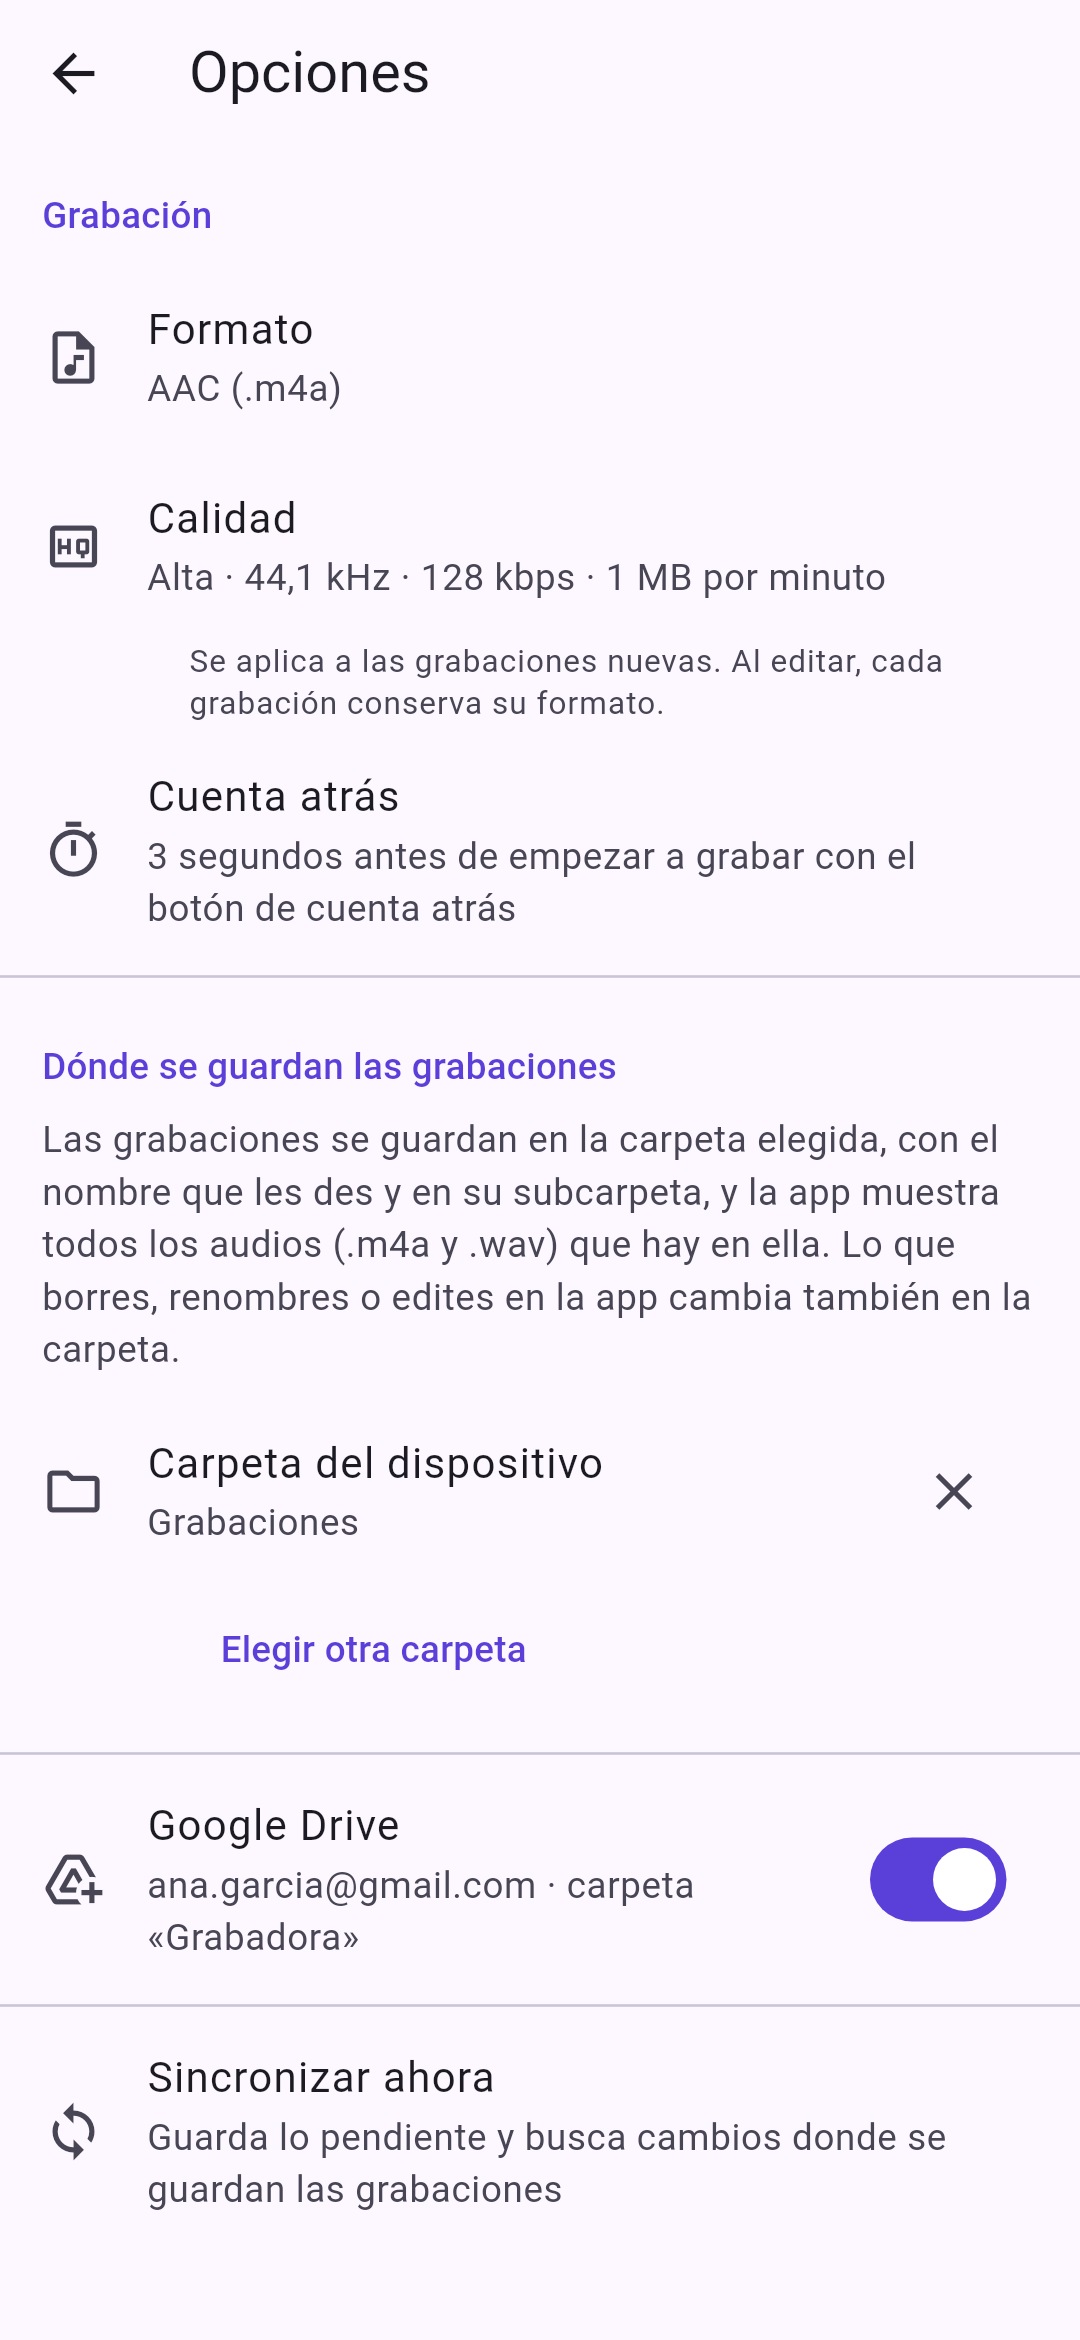
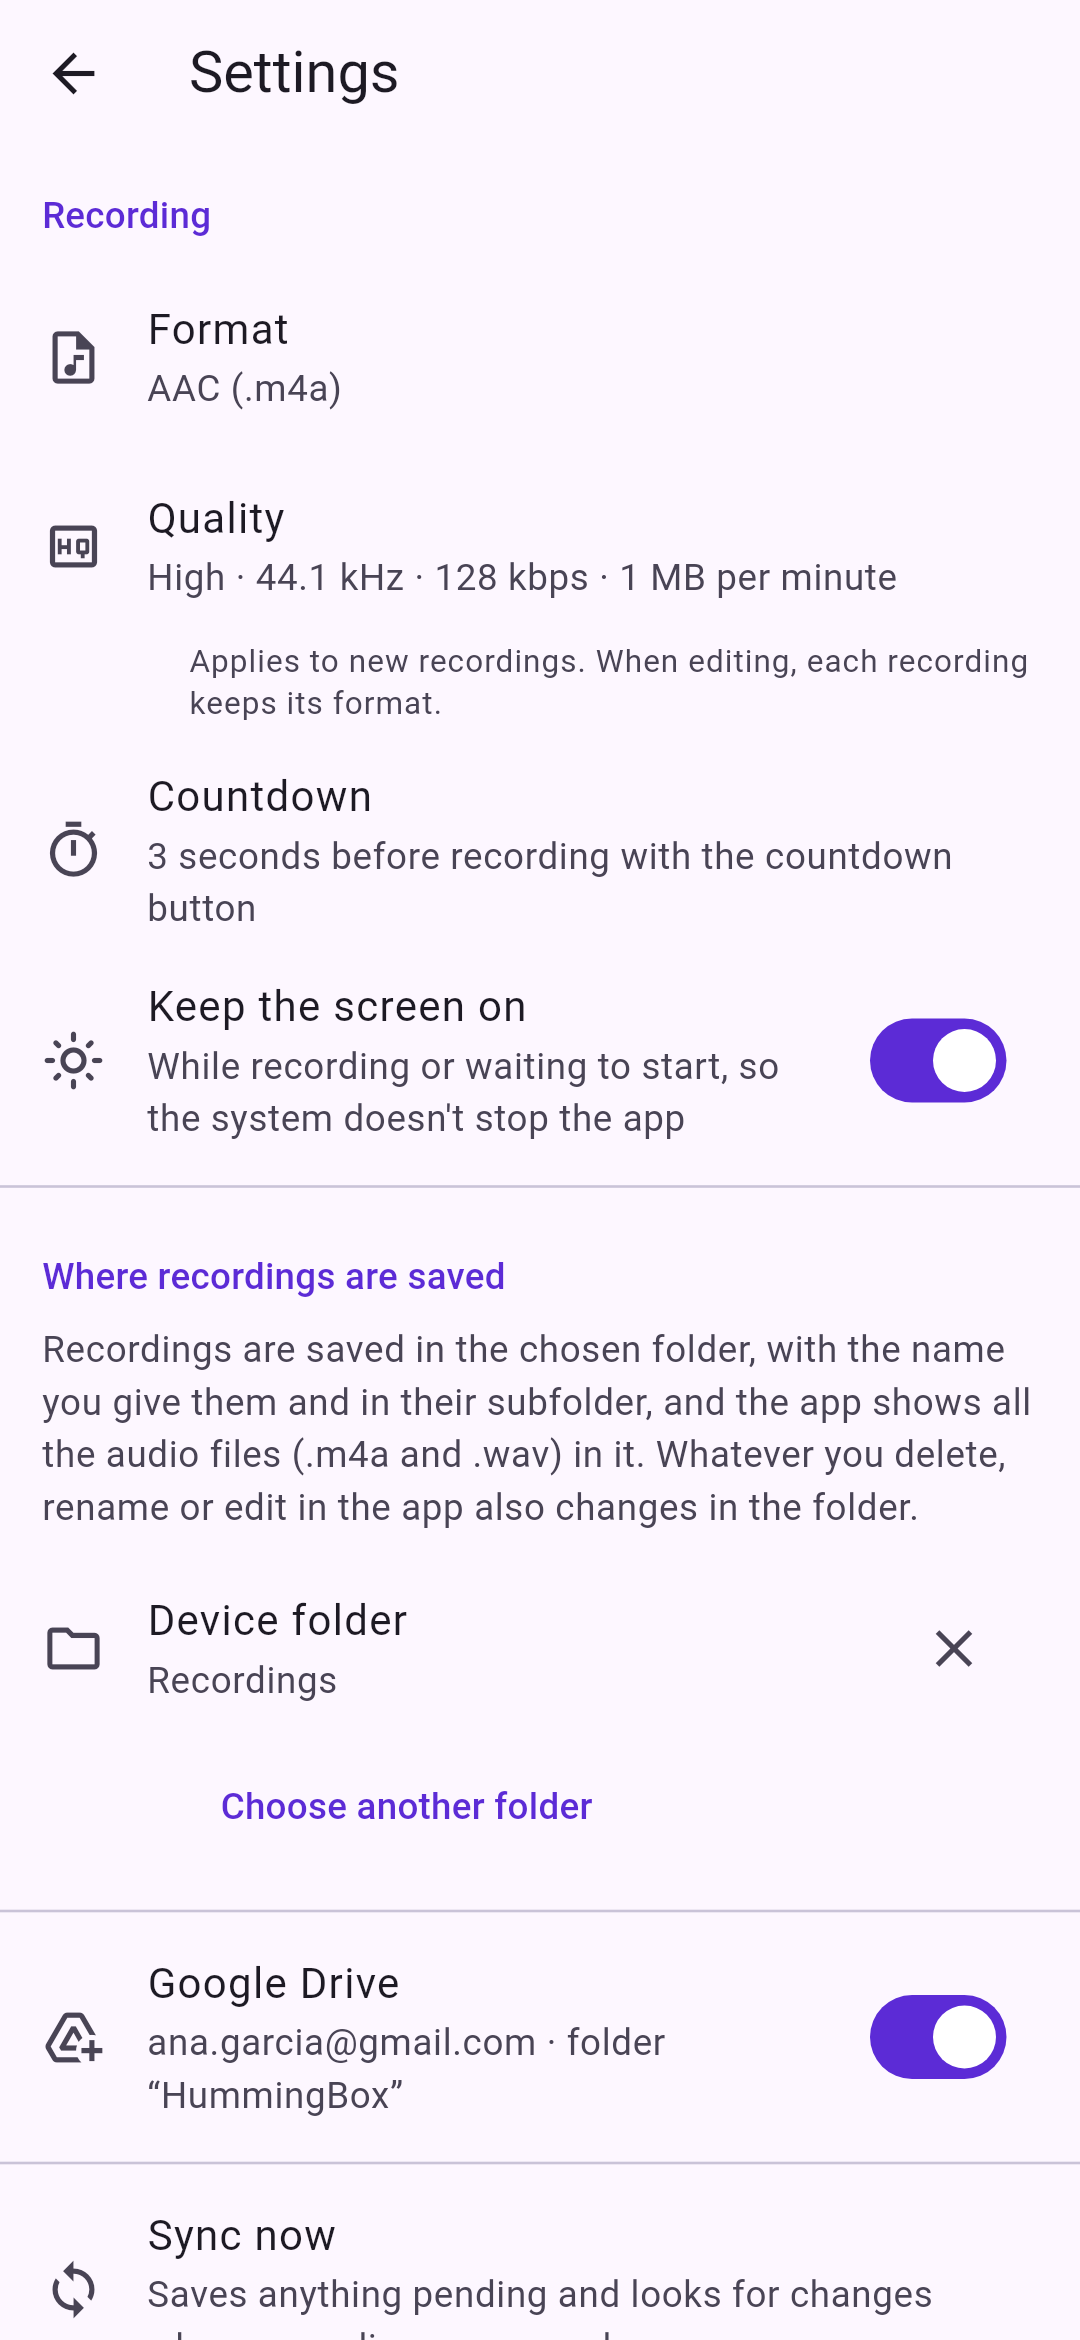
Capturas del README regeneradas y registro al día
- Las capturas de docs/ se regeneran en inglés, con HummingBox, la barra
  superior con búsqueda, la transcripción en la lista y las notas del
  piano. Nuevas: settings-more.png (el resto de opciones), piano.png y
  synth.png.
- RECORD/: los pendientes de capturas, hechos; el PR #10, fusionado; y el
  registro de este cambio.

Claude-Session: https://claude.ai/code/session_01BmXyQvMRZs3hMf9i1FEXMr

diff --git a/RECORD/2026-10-05.capturas-del-readme.completed.md b/RECORD/2026-10-05.capturas-del-readme.completed.md
@@ -1,0 +1,70 @@
+# Capturas del README y registro al día
+
+- **Fecha:** 2026-10-05
+- **Estado:** completed. Capturas regeneradas y README actualizado; el
+  código de la app no cambia.
+- **Rama:** `claude/dreamy-bardeen-g139k5`, desde `main` (con el PR #10 ya
+  fusionado, commit `bc114b4`).
+
+## Objetivo
+
+Petición del usuario: «Actualiza RECORD/ y las capturas de README».
+
+Las capturas de `docs/` eran de antes del cambio de nombre a HummingBox, de
+la barra superior con búsqueda, de la transcripción en la lista y del piano;
+varios registros lo tenían pendiente.
+
+## Decisiones
+
+- **En inglés**, como el README (las anteriores estaban en español, de
+  antes de pasarlo a inglés). Carpeta principal «Recordings» y carpeta de
+  Drive «HummingBox», la que crea la app ahora.
+- **Las mismas siete** que había, regeneradas, y **tres nuevas**:
+  - `settings-more.png`: las opciones desplazadas hasta el final (Google
+    Drive, transcripción, palabras parecidas y tema), que no cabían en
+    `settings.png`.
+  - `piano.png`: el piano en horizontal tocando un acorde de Do mayor, con
+    los nombres de las notas y el teclado entero debajo.
+  - `synth.png`: el sintetizador encima de las teclas.
+- El piano y el sintetizador, **en horizontal** (2340×1080): es como se ven
+  al girar el móvil, y en vertical salen de lado.
+- La lista muestra lo nuevo: de la más antigua a la más reciente, nombres
+  con fecha, una grabación con notas del piano sobre la voz, otra solo de
+  piano y la que suena con su transcripción y la línea de reproducción.
+- El README queda con tres filas: inicio, lista, preparada y grabando;
+  carpetas, editor y las dos de opciones; piano y sintetizador (más
+  anchas).
+
+## Cómo se hicieron
+
+- Con un test temporal (no subido) que monta la app con los fakes de
+  `test/fakes.dart` y datos de ejemplo, a 1080×2340 (412×891 a 2,625), con
+  Roboto y Material Icons del SDK y las sombras reales
+  (`debugDisableShadows = false`), y las guarda con `matchesGoldenFile`
+  y `--update-goldens`.
+- Flutter 3.47.6, el mismo que CI.
+- Las etiquetas de las teclas del piano se dibujan con `TextPainter` sin
+  familia: en el móvil usan la fuente del sistema, pero en los tests la de
+  pruebas (cuadros). Para la captura se les puso `fontFamily: 'Roboto'` solo
+  mientras se generaba, y se deshizo después.
+
+## Registro
+
+- Marcados como hechos los pendientes de capturas en
+  `busqueda-y-barra-superior`, `transcripcion-automatica-y-tirar-para-buscar`,
+  `selector-de-tema`, `piano` y `hummingbox-icono-y-docs`.
+- `piano-girado-instrumentos-y-sintetizador` y
+  `grabacion-nueva-seleccionada-y-aviso`: el PR #10 está fusionado en
+  `main` (`bc114b4`). Al primero se le añaden los commits que faltaban
+  (`7cee802`, documentación, y `4855a5d`, el sintetizador como el K.O. II)
+  y el número de tests con todo el PR.
+
+## Verificación
+
+- Revisadas a ojo todas las capturas.
+- `flutter analyze` sin avisos y **442 tests** en verde (sin el test
+  temporal).
+
+## Pendiente
+
+Nada.

diff --git a/README.md b/README.md
@@ -5,15 +5,20 @@ and transcribe voice notes, and keep them in a folder on your device or in
 Google Drive.
 
 <p>
-  <img src="docs/list.png" width="200" alt="Recordings list with each recording's format and waveform, one of them playing">
+  <img src="docs/start.png" width="200" alt="First-run menu to choose where recordings are stored: a device folder or Google Drive">
+  <img src="docs/list.png" width="200" alt="Recordings list, oldest to newest: a recording with piano notes over its voice, a piano-only one and the one playing with its transcript">
   <img src="docs/ready.png" width="200" alt="Record panel open and ready, with the countdown and start-on-voice buttons">
   <img src="docs/recording.png" width="200" alt="Recording in progress: the waveform is coloured from the point where it started">
 </p>
 <p>
-  <img src="docs/folders.png" width="200" alt="Side menu with the main folder, its subfolders and how many recordings each has">
+  <img src="docs/folders.png" width="200" alt="Side menu with the main folder, its subfolders, how many recordings each has and the piano button">
   <img src="docs/editor.png" width="200" alt="Editing mode with the trimmed selection, volume and fades">
-  <img src="docs/start.png" width="200" alt="First-run menu to choose where recordings are stored: a device folder or Google Drive">
-  <img src="docs/settings.png" width="200" alt="Recording settings (format, quality and countdown) and where recordings are stored">
+  <img src="docs/settings.png" width="200" alt="Recording settings (format, quality, countdown and keeping the screen on) and where recordings are stored">
+  <img src="docs/settings-more.png" width="200" alt="More settings: Google Drive, transcription, similar words in search and the theme">
+</p>
+<p>
+  <img src="docs/piano.png" width="400" alt="Landscape piano playing a C major chord, with the note names and the whole keyboard below">
+  <img src="docs/synth.png" width="400" alt="The synthesizer above the keys: a screen, four keys to pick what the X and Y knobs change, and the two knobs">
 </p>
 
 ## Features

diff --git a/RECORD/2026-10-05.piano-girado-instrumentos-y-sintetizador.completed.md b/RECORD/2026-10-05.piano-girado-instrumentos-y-sintetizador.completed.md
@@ -5,10 +5,14 @@
   probarlo en un dispositivo (sobre todo el sonido de los instrumentos, la
   relajación del sintetizador al soltar y las calidades nuevas).
 - **Rama:** `claude/wizardly-noether-uo1z4m`, desde `main` (versión 1.0.10).
-- **PR:** [germadev/hummingbox#10](https://github.com/germadev/hummingbox/pull/10) (creado desde la interfaz de Claude Code).
+- **PR:** [germadev/hummingbox#10](https://github.com/germadev/hummingbox/pull/10)
+  (creado desde la interfaz de Claude Code), fusionado en `main` el
+  2026-10-05 (commit `bc114b4`).
 - **Commits:** `de087cb` (girado, arrastres, selector), `f7cc00c`
   (instrumentos, desplazamiento continuo, pellizco), `db50dfd`
-  (sintetizador), `da77ff9` (botón en el menú), `361b472` (calidades).
+  (sintetizador), `da77ff9` (botón en el menú), `361b472` (calidades),
+  `7cee802` (documentación y registro) y `4855a5d` (sintetizador con el
+  aspecto del K.O. II).
 
 ## Objetivo
 
@@ -146,6 +150,9 @@ Peticiones del usuario, en orden:
   desplazamiento continuo y pellizco, botón en el menú y calidades.
 - Capturas de los tests para revisar el diseño en vertical (al deslizar y
   abierto, con el menú girado) y en horizontal.
+- Con lo que se añadió después en el mismo PR (registro
+  `2026-10-05.grabacion-nueva-seleccionada-y-aviso`), `main` queda con
+  **442 tests** en verde.
 
 ## Pendiente
 

diff --git a/RECORD/2026-10-05.selector-de-tema.completed.md b/RECORD/2026-10-05.selector-de-tema.completed.md
@@ -62,9 +62,11 @@ Hasta ahora la app seguía siempre el tema del sistema.
 - [ ] Ver en un dispositivo que el tema elegido se aplica al abrir la app y
       al cambiarlo, también en la pantalla de inicio de Android (que sigue
       el tema del sistema hasta que arranca Flutter).
-- [ ] La captura `docs/opciones.png` del README no muestra las secciones
+- [x] La captura `docs/opciones.png` del README no muestra las secciones
       nuevas (pantalla encendida, transcripción y apariencia): regenerarla
-      cuando se hagan capturas nuevas.
+      cuando se hagan capturas nuevas. *(Hecho: ahora son
+      `docs/settings.png` y `docs/settings-more.png`; registro
+      `2026-10-05.capturas-del-readme`.)*
 
 ## Limitaciones conocidas
 

diff --git a/RECORD/2026-10-05.transcripcion-automatica-y-tirar-para-buscar.completed.md b/RECORD/2026-10-05.transcripcion-automatica-y-tirar-para-buscar.completed.md
@@ -194,8 +194,8 @@ las sombras reales.
       (que no moleste mientras se graba, el aviso si el reconocimiento del
       sistema no está disponible, y el permiso de reconocimiento de voz de
       iOS, que ahora se pide la primera vez que se transcribe sola).
-- [ ] Las capturas del README (`docs/*.png`) siguen sin regenerar (pendiente
-      del registro `2026-10-05.busqueda-y-barra-superior`).
+- [x] Las capturas del README (`docs/*.png`) siguen sin regenerar (pendiente
+      del registro `2026-10-05.busqueda-y-barra-superior`). *(Hecho: registro `2026-10-05.capturas-del-readme`.)*
 
 ## Limitaciones conocidas
 

diff --git a/RECORD/2026-10-05.hummingbox-icono-y-docs.completed.md b/RECORD/2026-10-05.hummingbox-icono-y-docs.completed.md
@@ -118,8 +118,9 @@ El usuario pide, en mensajes seguidos:
 
 - Ver el icono en dispositivos: lanzadores con distintas formas, iconos
   temáticos de Android 13+ y pantalla de inicio de iOS.
-- Las capturas de `docs/` son de antes del cambio de nombre y de la barra
-  superior con búsqueda: conviene regenerarlas.
+- ~~Las capturas de `docs/` son de antes del cambio de nombre y de la barra
+  superior con búsqueda: conviene regenerarlas.~~ Hecho (registro
+  `2026-10-05.capturas-del-readme`).
 - Lo que ya estaba pendiente: probar en dispositivos, secretos `ANDROID_*` y
   variables `GOOGLE_*` en el repositorio.
 

diff --git a/RECORD/2026-10-05.busqueda-y-barra-superior.completed.md b/RECORD/2026-10-05.busqueda-y-barra-superior.completed.md
@@ -132,5 +132,5 @@ Peticiones del usuario, en el orden en que llegaron:
 - [x] Decidir si guardar el nombre y la transcripción dentro del archivo
       (ver «Respuesta: ID3 y AAC»). *(Decidido: en un `.txt` junto al
       audio; registro `2026-10-05.transcripcion-en-txt`.)*
-- [ ] Las capturas del README (`docs/*.png`) muestran todavía la barra con
-      «Grabadora» y la hamburguesa: regenerarlas.
+- [x] Las capturas del README (`docs/*.png`) muestran todavía la barra con
+      «Grabadora» y la hamburguesa: regenerarlas. *(Hecho: registro `2026-10-05.capturas-del-readme`.)*

diff --git a/RECORD/2026-10-05.grabacion-nueva-seleccionada-y-aviso.completed.md b/RECORD/2026-10-05.grabacion-nueva-seleccionada-y-aviso.completed.md
@@ -4,7 +4,9 @@
 - **Estado:** completed. Hecho y probado con tests (440 en verde). Falta
   verlo en un dispositivo.
 - **Rama:** `claude/wizardly-noether-uo1z4m`.
-- **PR:** [germadev/hummingbox#10](https://github.com/germadev/hummingbox/pull/10) (creado desde la interfaz de Claude Code).
+- **PR:** [germadev/hummingbox#10](https://github.com/germadev/hummingbox/pull/10)
+  (creado desde la interfaz de Claude Code), fusionado en `main` el
+  2026-10-05 (commit `bc114b4`).
 
 ## Objetivo
 

diff --git a/RECORD/2026-10-05.piano.completed.md b/RECORD/2026-10-05.piano.completed.md
@@ -139,7 +139,8 @@ Peticiones del usuario, en orden:
 - [ ] Al acompañar, comprobar de oído la sincronía: las notas cuentan desde
       que la reproducción empieza; si el móvil tarda en sonar, pueden quedar
       unas decenas de milisegundos adelantadas.
-- [ ] Capturas nuevas para la documentación.
+- [x] Capturas nuevas para la documentación. *(Hecho: `docs/piano.png` y
+      `docs/synth.png`; registro `2026-10-05.capturas-del-readme`.)*
 
 ## Limitaciones conocidas
 
